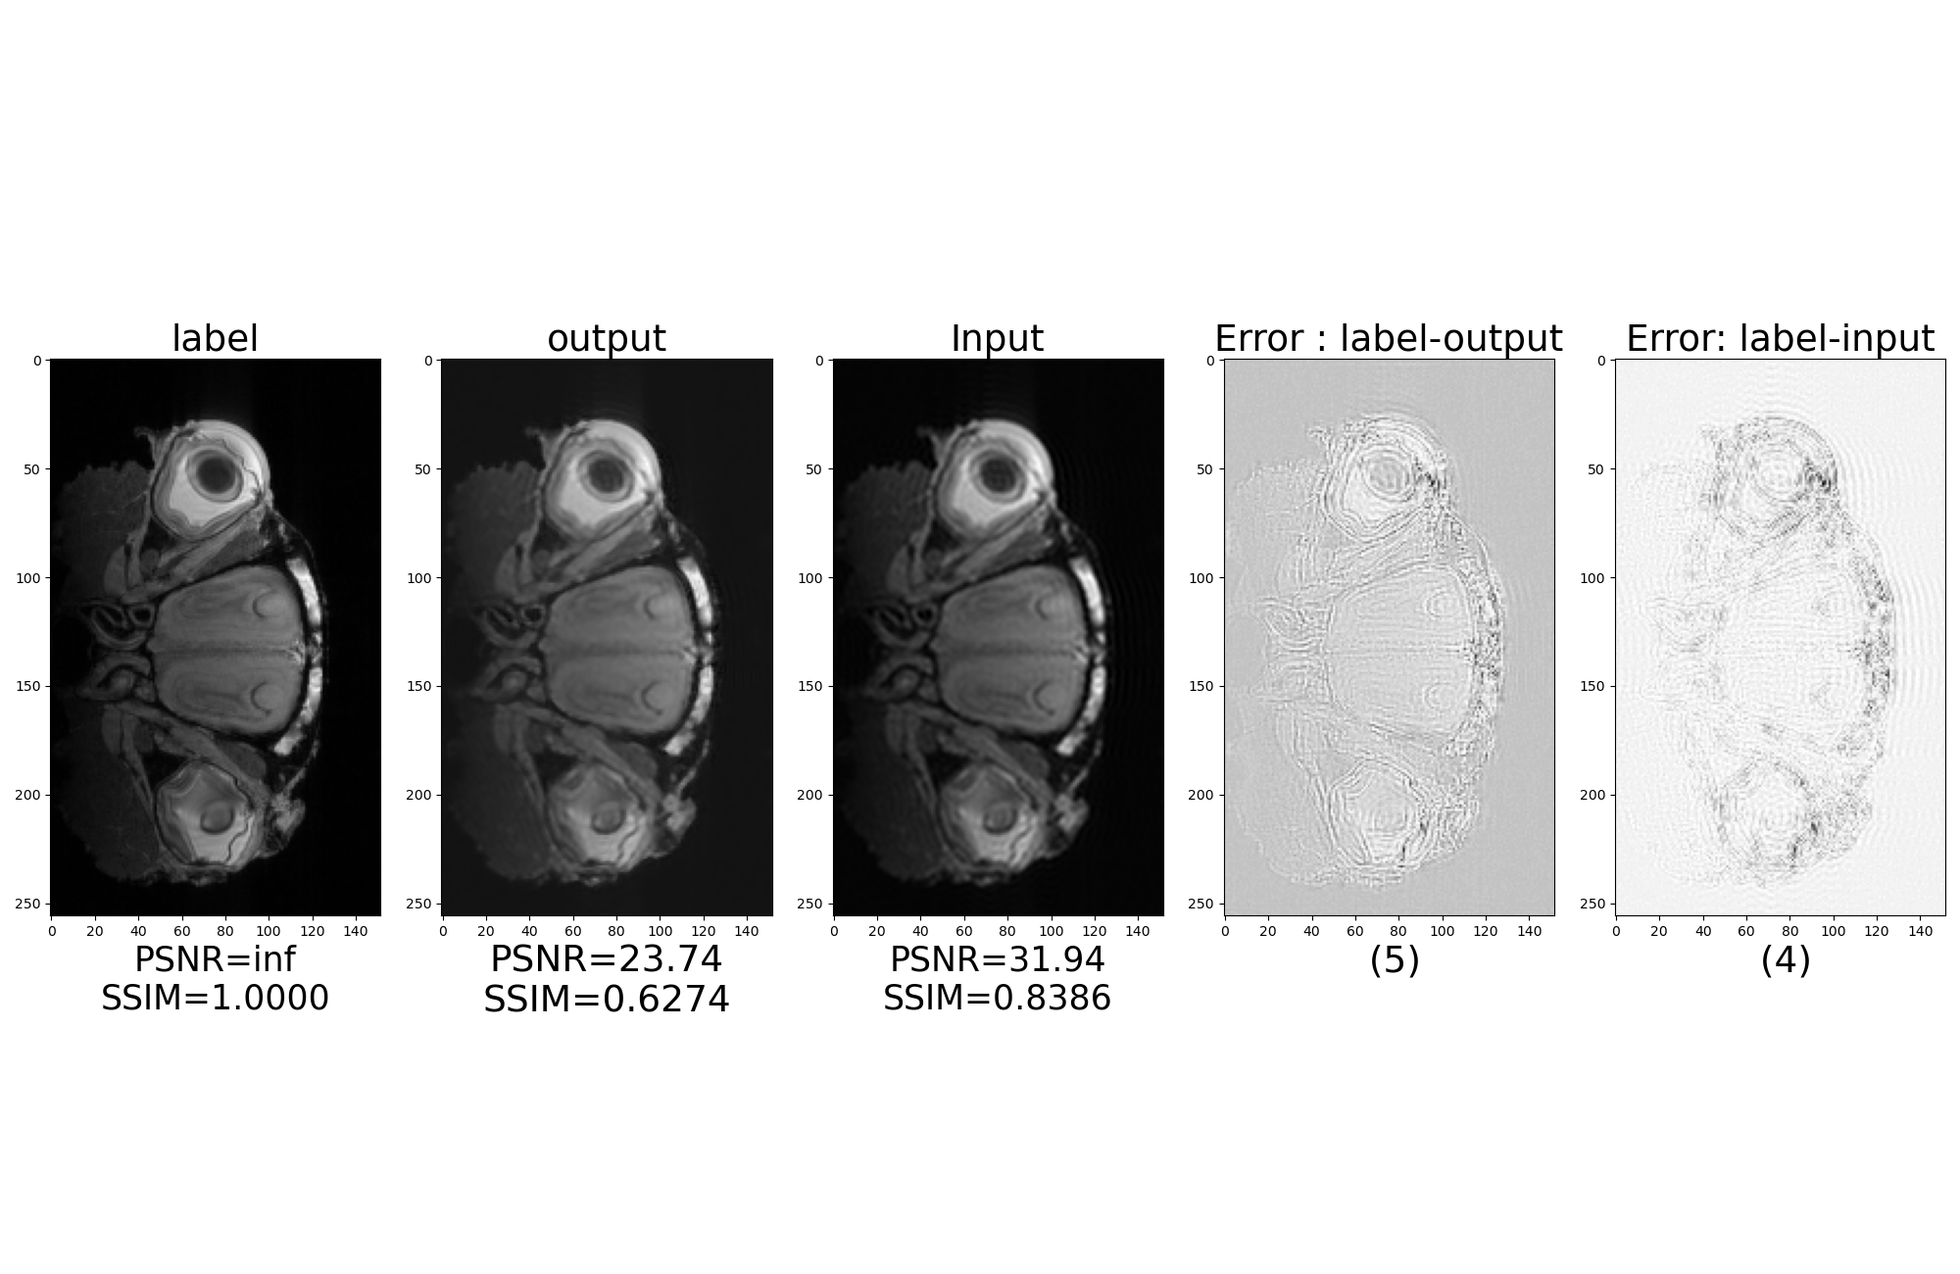
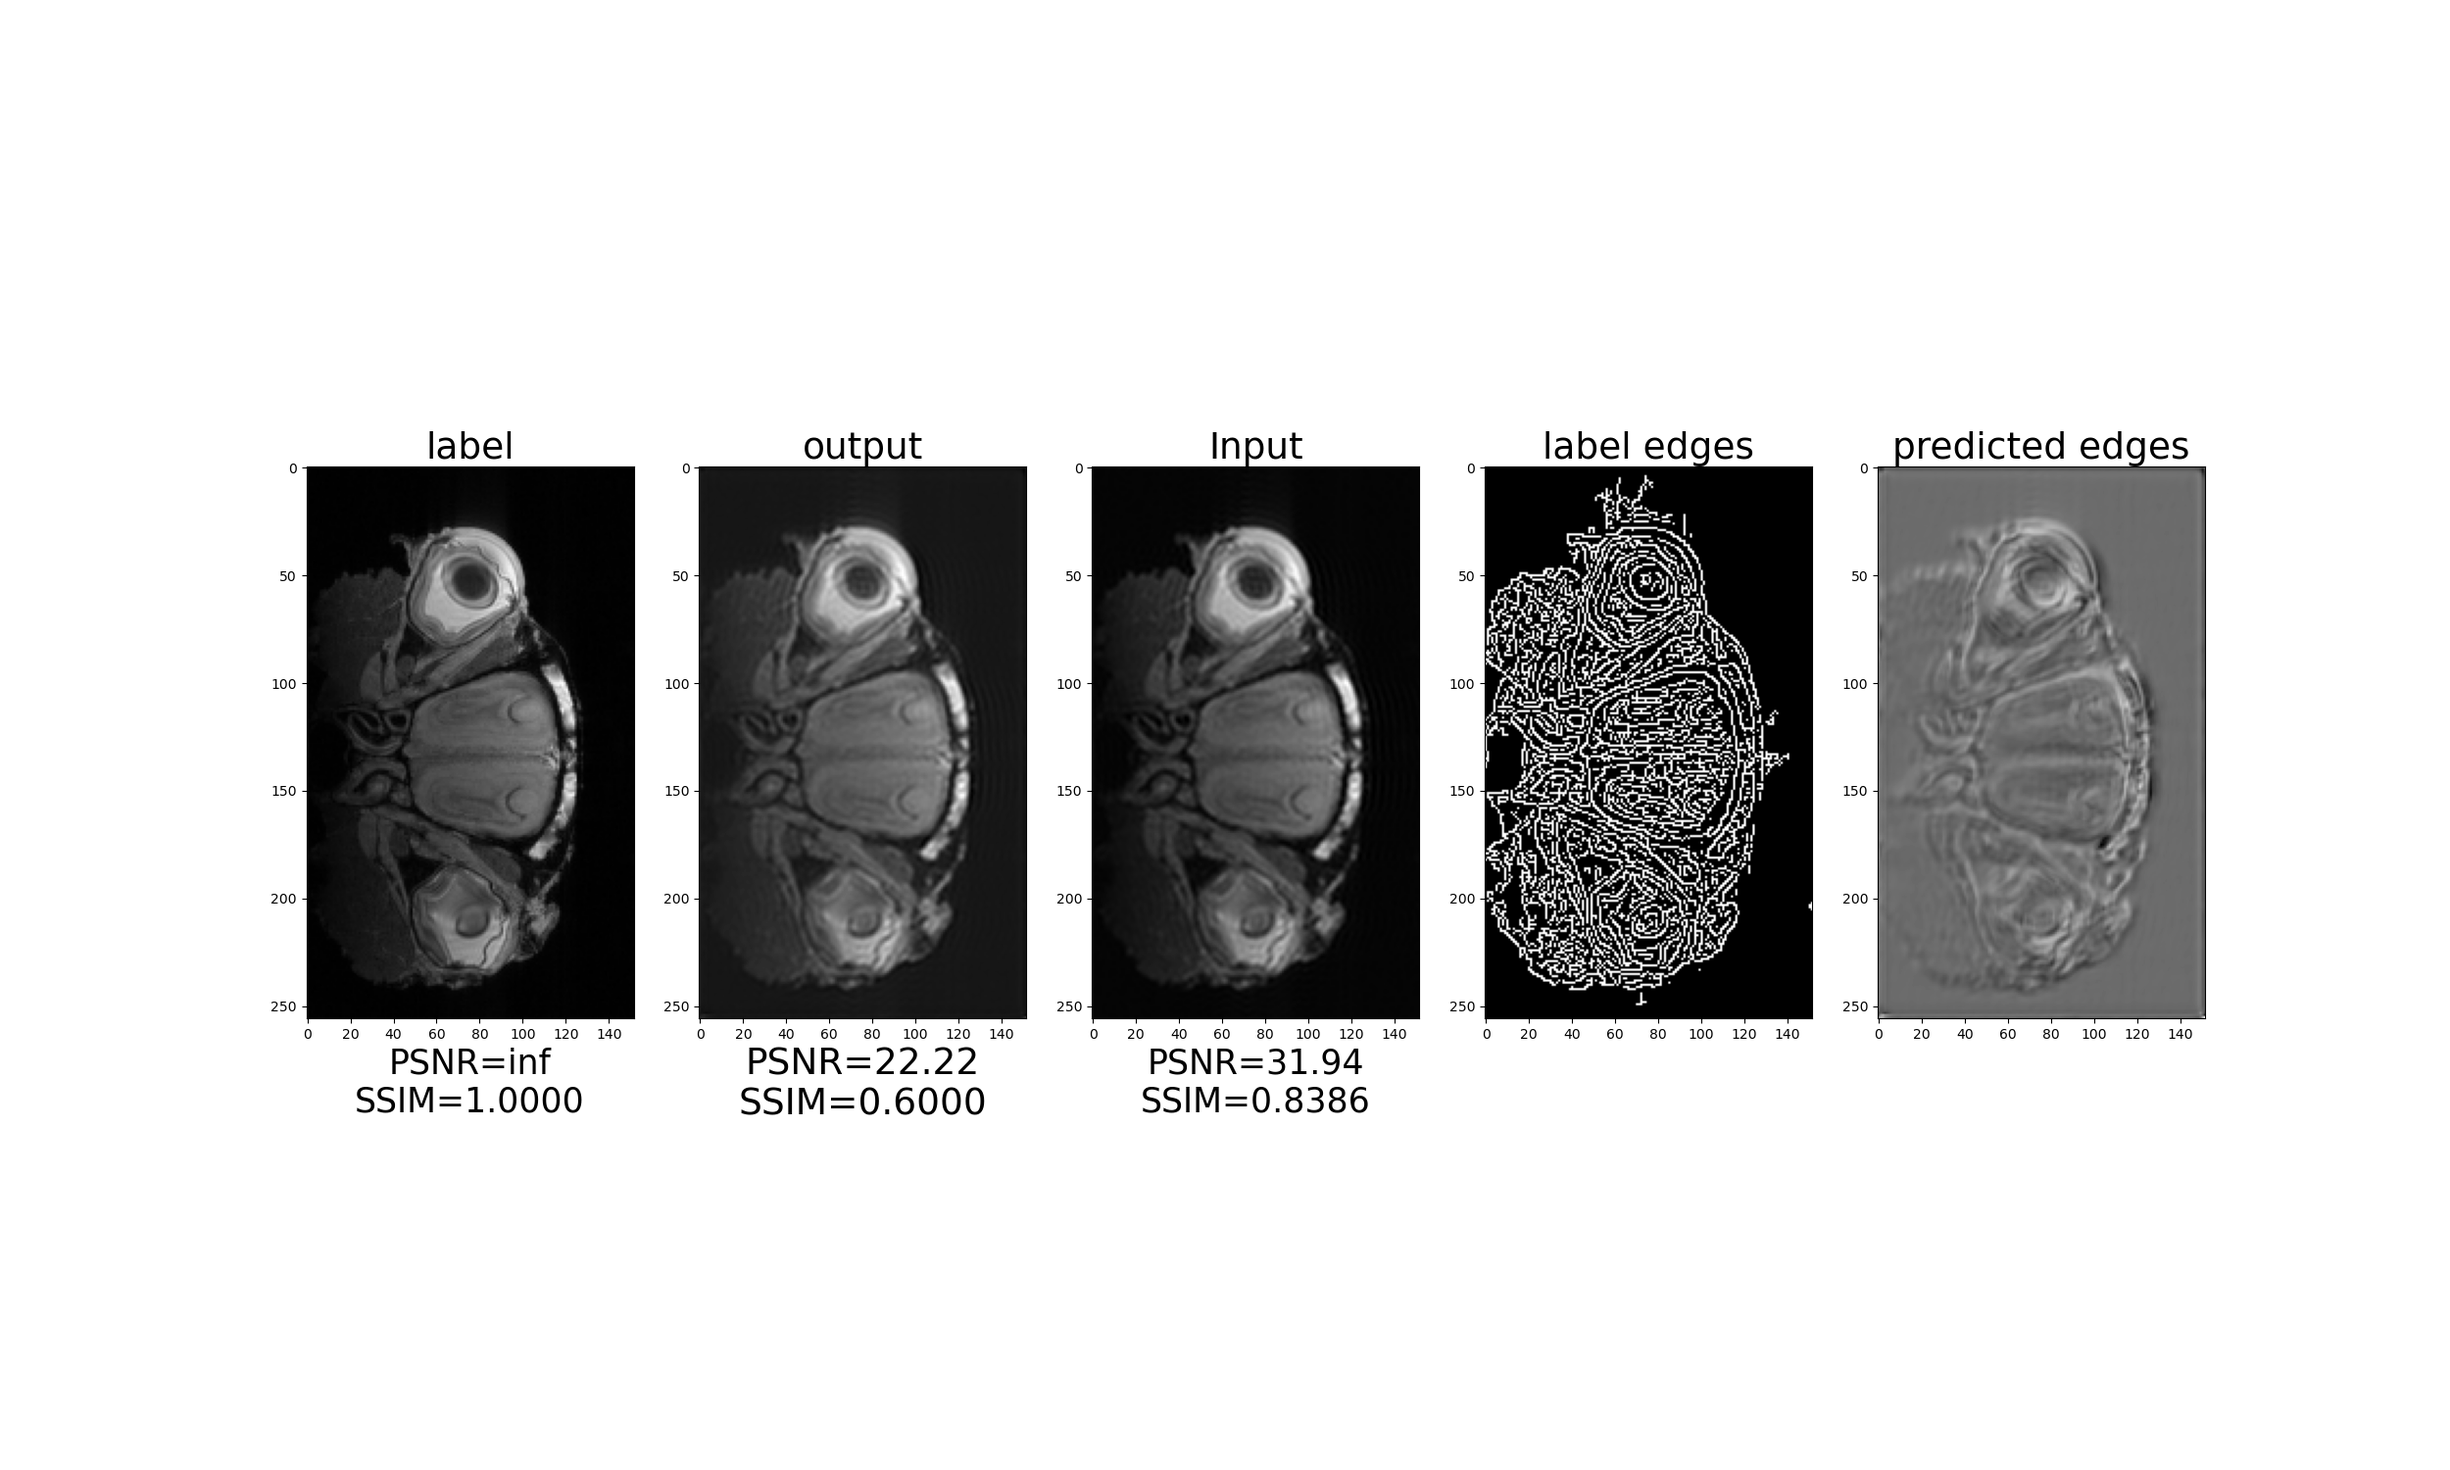
added leaky relu and tanh for densenet

diff --git a/models/densenet.py b/models/densenet.py
@@ -6,20 +6,20 @@ class ConvLayer(nn.Module):
     def __init__(self, in_channels, out_channels, kernel_size):
         super(ConvLayer, self).__init__()
         self.conv = nn.Conv2d(in_channels, out_channels, kernel_size=kernel_size, padding=kernel_size // 2)
-        self.relu = nn.ReLU(inplace=True)
+        self.leaky_relu = nn.LeakyReLU(0.1)
 
     def forward(self, x):
-        return self.relu(self.conv(x))
+        return self.leaky_relu(self.conv(x))
 
 
 class DenseLayer(nn.Module):
     def __init__(self, in_channels, out_channels, kernel_size):
         super(DenseLayer, self).__init__()
         self.conv = nn.Conv2d(in_channels, out_channels, kernel_size=kernel_size, padding=kernel_size // 2)
-        self.relu = nn.ReLU(inplace=True)
+        self.leaky_relu = nn.LeakyReLU(0.1)
 
     def forward(self, x):
-        return torch.cat([x, self.relu(self.conv(x))], 1)
+        return torch.cat([x, self.leaky_relu(self.conv(x))], 1)
 
 
 class DenseBlock(nn.Module):
@@ -50,19 +50,20 @@ class SRDenseNet(nn.Module):
         # bottleneck layer
         self.bottleneck = nn.Sequential(
             nn.Conv2d(growth_rate * num_layers + growth_rate * num_layers * num_blocks, 256, kernel_size=1),
-            nn.ReLU(inplace=True)
+            nn.LeakyReLU(0.1)
         )
 
         # deconvolution layers
         self.deconv = nn.Sequential(
             nn.ConvTranspose2d(256, 256, kernel_size=3, stride=2, padding=3 // 2, output_padding=1),
-            nn.ReLU(inplace=True),
+            nn.LeakyReLU(0.1),
             nn.ConvTranspose2d(256, 256, kernel_size=3, stride=2, padding=3 // 2, output_padding=1),
-            nn.ReLU(inplace=True)
+            nn.LeakyReLU(0.1)
         )
 
         # reconstruction layer
         self.reconstruction = nn.Conv2d(256, num_channels, kernel_size=3, padding=3 // 2)
+        self.tanh = nn.Tanh()
 
         self._initialize_weights()
 
@@ -78,7 +79,7 @@ class SRDenseNet(nn.Module):
         x = self.dense_blocks(x)
         x = self.bottleneck(x)
         # x = self.deconv(x)
-        x = self.reconstruction(x)
+        x = self.tanh(self.reconstruction(x))
         return x
 
     def save(self,model,opt,path,optimizer,epoch):
@@ -109,19 +110,20 @@ class SRDenseNetUpscale(nn.Module):
         # bottleneck layer
         self.bottleneck = nn.Sequential(
             nn.Conv2d(growth_rate * num_layers + growth_rate * num_layers * num_blocks, 256, kernel_size=1),
-            nn.ReLU(inplace=True)
+            nn.LeakyReLU(0.1)
         )
 
         # deconvolution layers
         self.deconv = nn.Sequential(
             nn.ConvTranspose2d(256, 256, kernel_size=3, stride=2, padding=3 // 2, output_padding=1),
-            nn.ReLU(inplace=True),
+            nn.LeakyReLU(0.1),
             # nn.ConvTranspose2d(256, 256, kernel_size=3, stride=2, padding=3 // 2, output_padding=1),
-            # nn.ReLU(inplace=True)
+            # nn.LeakyReLU(0.1)
         )
 
         # reconstruction layer
         self.reconstruction = nn.Conv2d(256, num_channels, kernel_size=3, padding=3 // 2)
+        self.tanh = nn.Tanh()
 
         self._initialize_weights()
 
@@ -137,7 +139,7 @@ class SRDenseNetUpscale(nn.Module):
         x = self.dense_blocks(x)
         x = self.bottleneck(x)
         x = self.deconv(x)
-        x = self.reconstruction(x)
+        x = self.tanh(self.reconstruction(x))
         return x
 
     def save(self,model,opt,path,optimizer,epoch):

diff --git a/train_edges.py b/train_edges.py
@@ -35,6 +35,21 @@ def load_dataset_edges(opt):
     return train_dataloader,eval_dataloader,train_datasets,val_datasets
 
 
+def load_eval_dataset_edges(opt):
+    set_val_dir(opt)  #setting the training datasset dir
+    set_train_dir(opt)  #setting the validation set dir
+    train_datasets = MRIDatasetEdges(opt.train_image_dir, opt.train_label_dir)
+    val_datasets = MRIDatasetEdges(opt.val_image_dir, opt.val_label_dir)
+
+    sampler = RdnSampler(train_datasets,opt.train_batch_size,True,classes=train_datasets.classes())
+    val_sampler = RdnSampler(val_datasets,opt.val_batch_size,True,classes=train_datasets.classes())
+
+    train_dataloader = torch.utils.data.DataLoader(train_datasets, batch_size = opt.train_batch_size,sampler = sampler,shuffle=False,
+        num_workers=1,pin_memory=False,drop_last=False)
+    eval_dataloader = torch.utils.data.DataLoader(val_datasets, batch_size = opt.val_batch_size,sampler = val_sampler,shuffle=False,
+        num_workers=1,pin_memory=False,drop_last=False)
+    return train_dataloader,eval_dataloader,train_datasets,val_datasets
+
 def train(opt,model,criterion,optimizer,train_datasets,train_dataloader,eval_dataloader,wandb=None):
 
     if opt.wandb:

diff --git a/models/resunet.py b/models/resunet.py
@@ -78,6 +78,7 @@ class ResUNet(nn.Module):
         '''Output'''
         self.output = nn.Conv2d(32,out_ch,kernel_size=1,padding=0)
         self.leakyrelu =nn.LeakyReLU(0.1)
+        self.tanh = nn.Tanh()
 
 
     def forward(self,input):
@@ -103,7 +104,7 @@ class ResUNet(nn.Module):
 
         '''Output'''
         output = self.output(d3)
-        output = self.leakyrelu(output)
+        output = self.tanh(output)
 
         return output
 

diff --git a/utils/preprocess.py b/utils/preprocess.py
@@ -119,7 +119,6 @@ def apply_model_edges(model,epoch,opt):
     image = cv2.imread(opt.epoch_image_path)
     image = cv2.cvtColor(image, cv2.COLOR_BGR2GRAY)
 
-
     edges = cv2.Canny(image = image, threshold1=1, threshold2=20)
 
     image = image.astype(np.float32) / 255.
@@ -150,6 +149,8 @@ def apply_model_edges(model,epoch,opt):
     cv2.imwrite(path, image_numpy)
     print("Image saved as {}".format(path))
     return True
+
+
 
 
 

diff --git a/demo_edges.py b/demo_edges.py
@@ -144,9 +144,9 @@ fig.add_subplot(1, cols, 5)
 plt.title('predicted edges',fontsize=fnsize)
 plt.imshow(pred_edges,cmap='gray')
 
-fig.add_subplot(1, cols, 6)
-plt.title('Input edges',fontsize=fnsize)
-plt.imshow(lr_edges,cmap='gray')
+# fig.add_subplot(1, cols, 6)
+# plt.title('Input edges',fontsize=fnsize)
+# plt.imshow(lr_edges,cmap='gray')
 
 # if not os.path.exists(opt.save_dir):
 #     os.makedirs(opt.save_dir)
